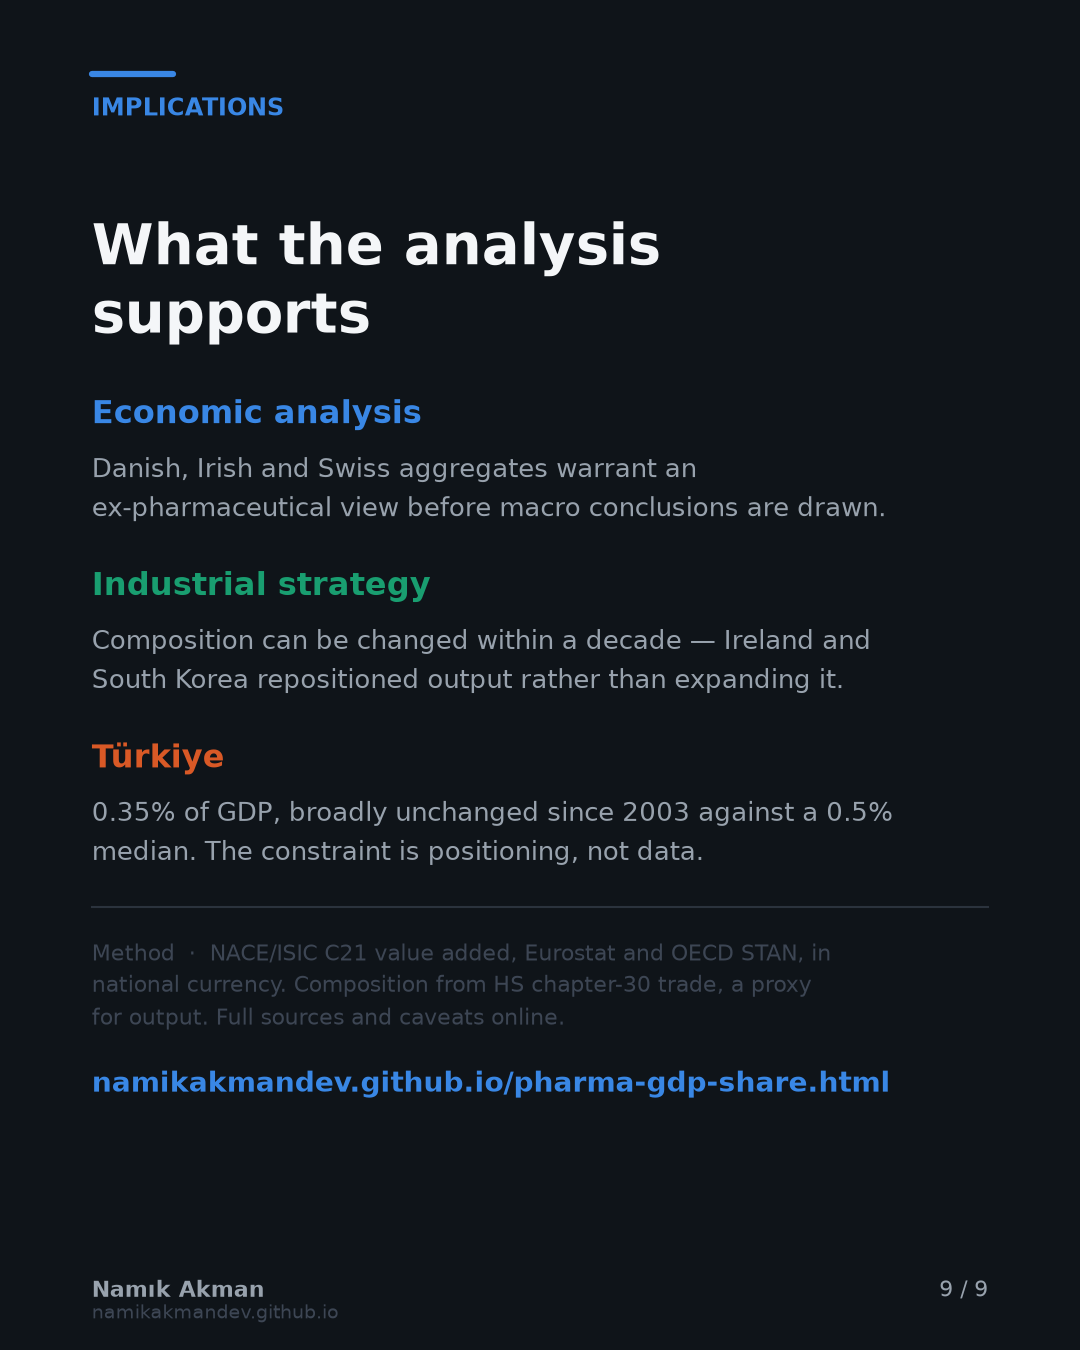
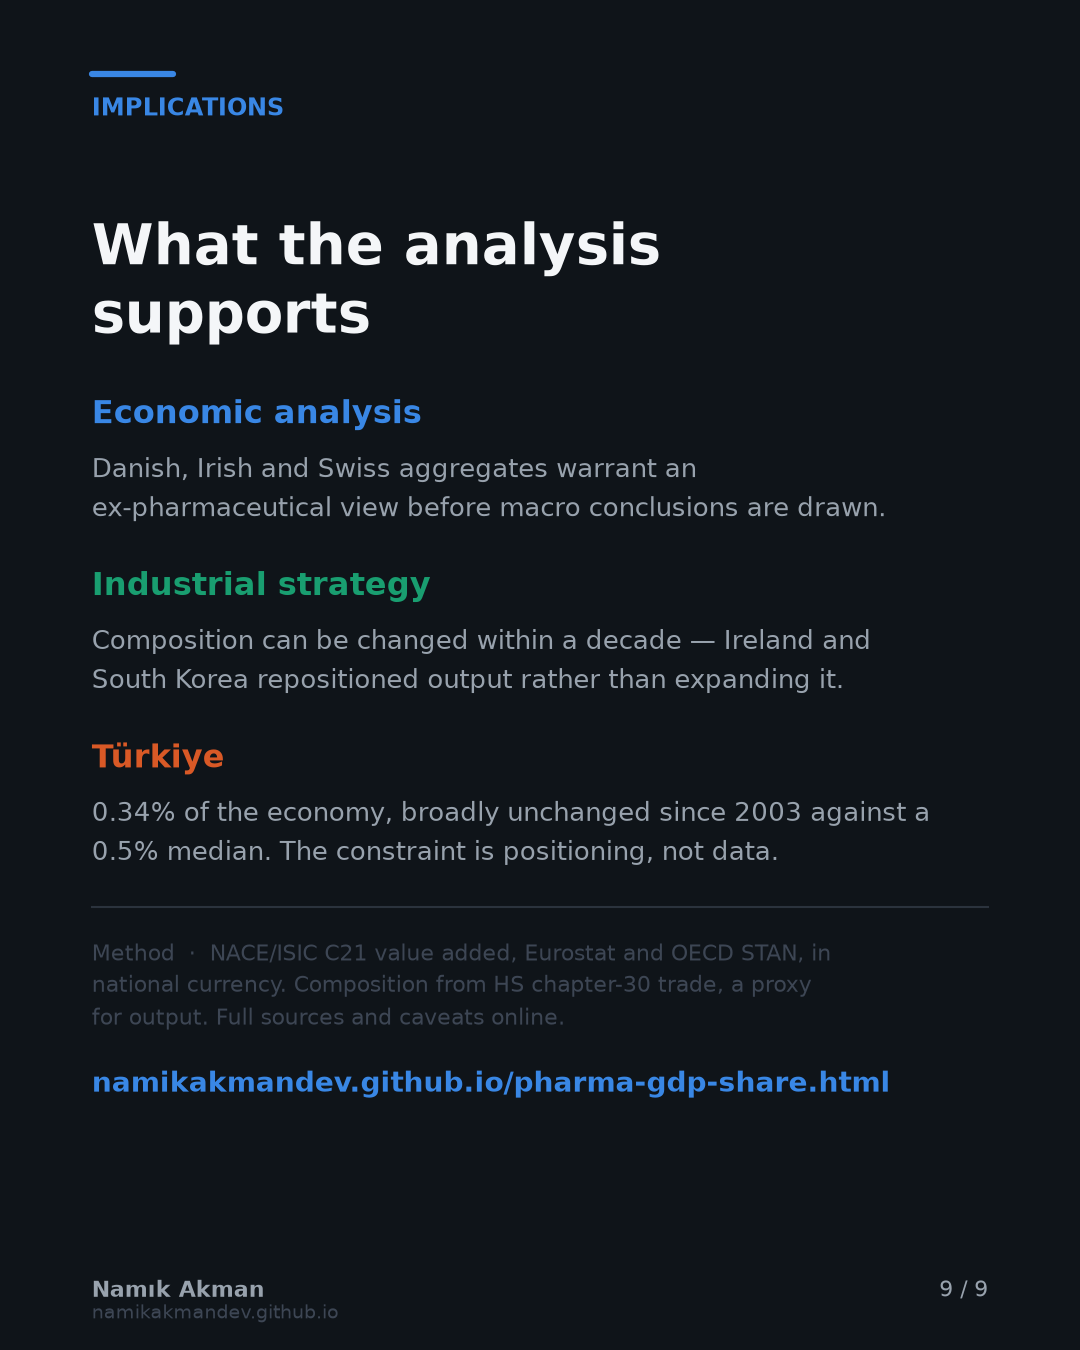
carousel: align Türkiye figure with the study (0.34% of the economy)
The deck quoted 0.35% of GDP while the page and table use 0.34% of total
value added throughout. Same country, different denominators — now
consistent on the value-added basis used everywhere else.

Changed region(s): [[0.0917, 0.5911, 0.8556, 0.6533]]

diff --git a/scripts/pharma_carousel.py b/scripts/pharma_carousel.py
@@ -543,8 +543,8 @@ def s8(pdf):
          "Composition can be changed within a decade — Ireland and\n"
          "South Korea repositioned output rather than expanding it."),
         ("Türkiye", ORANGE,
-         "0.35% of GDP, broadly unchanged since 2003 against a 0.5%\n"
-         "median. The constraint is positioning, not data."),
+         "0.34% of the economy, broadly unchanged since 2003 against a\n"
+         "0.5% median. The constraint is positioning, not data."),
     ]
     for head, col, body in rows:
         s.block(head, size=15.5, color=col, weight="bold", gap=6)
